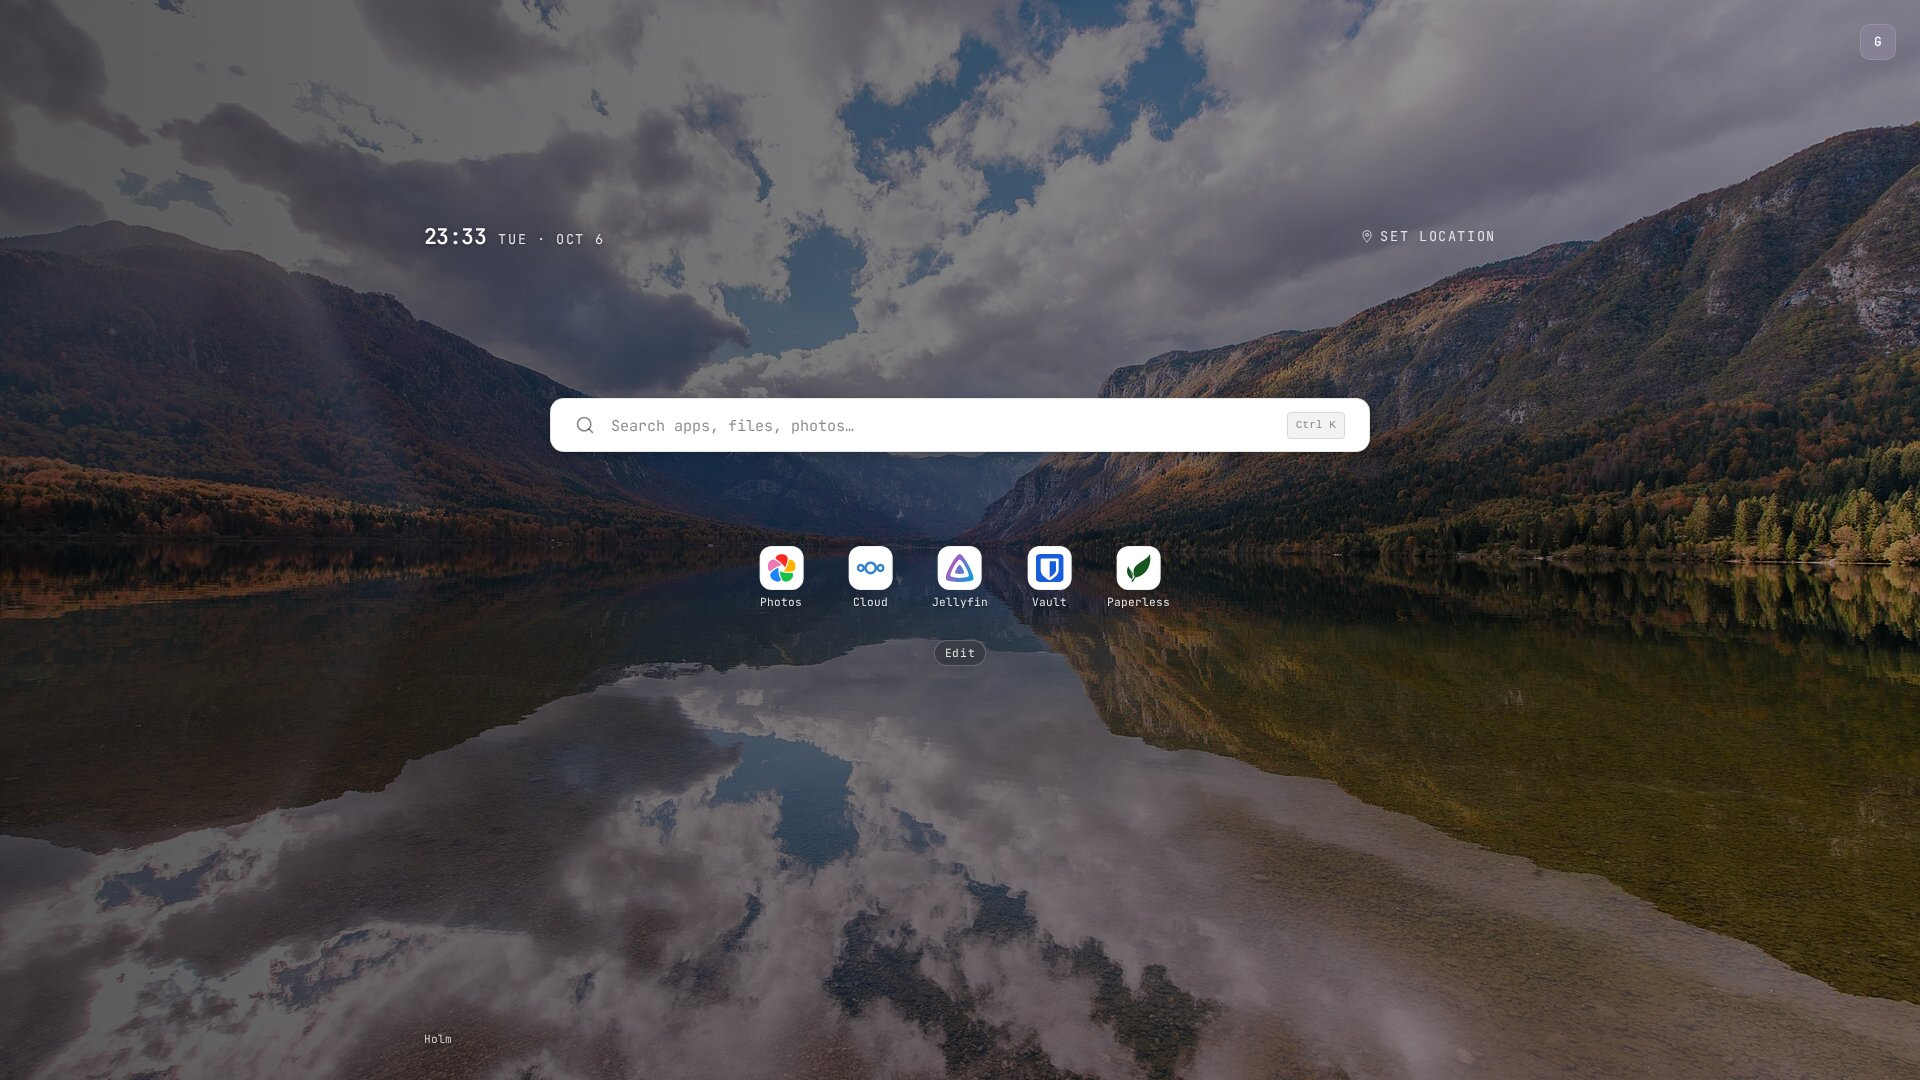
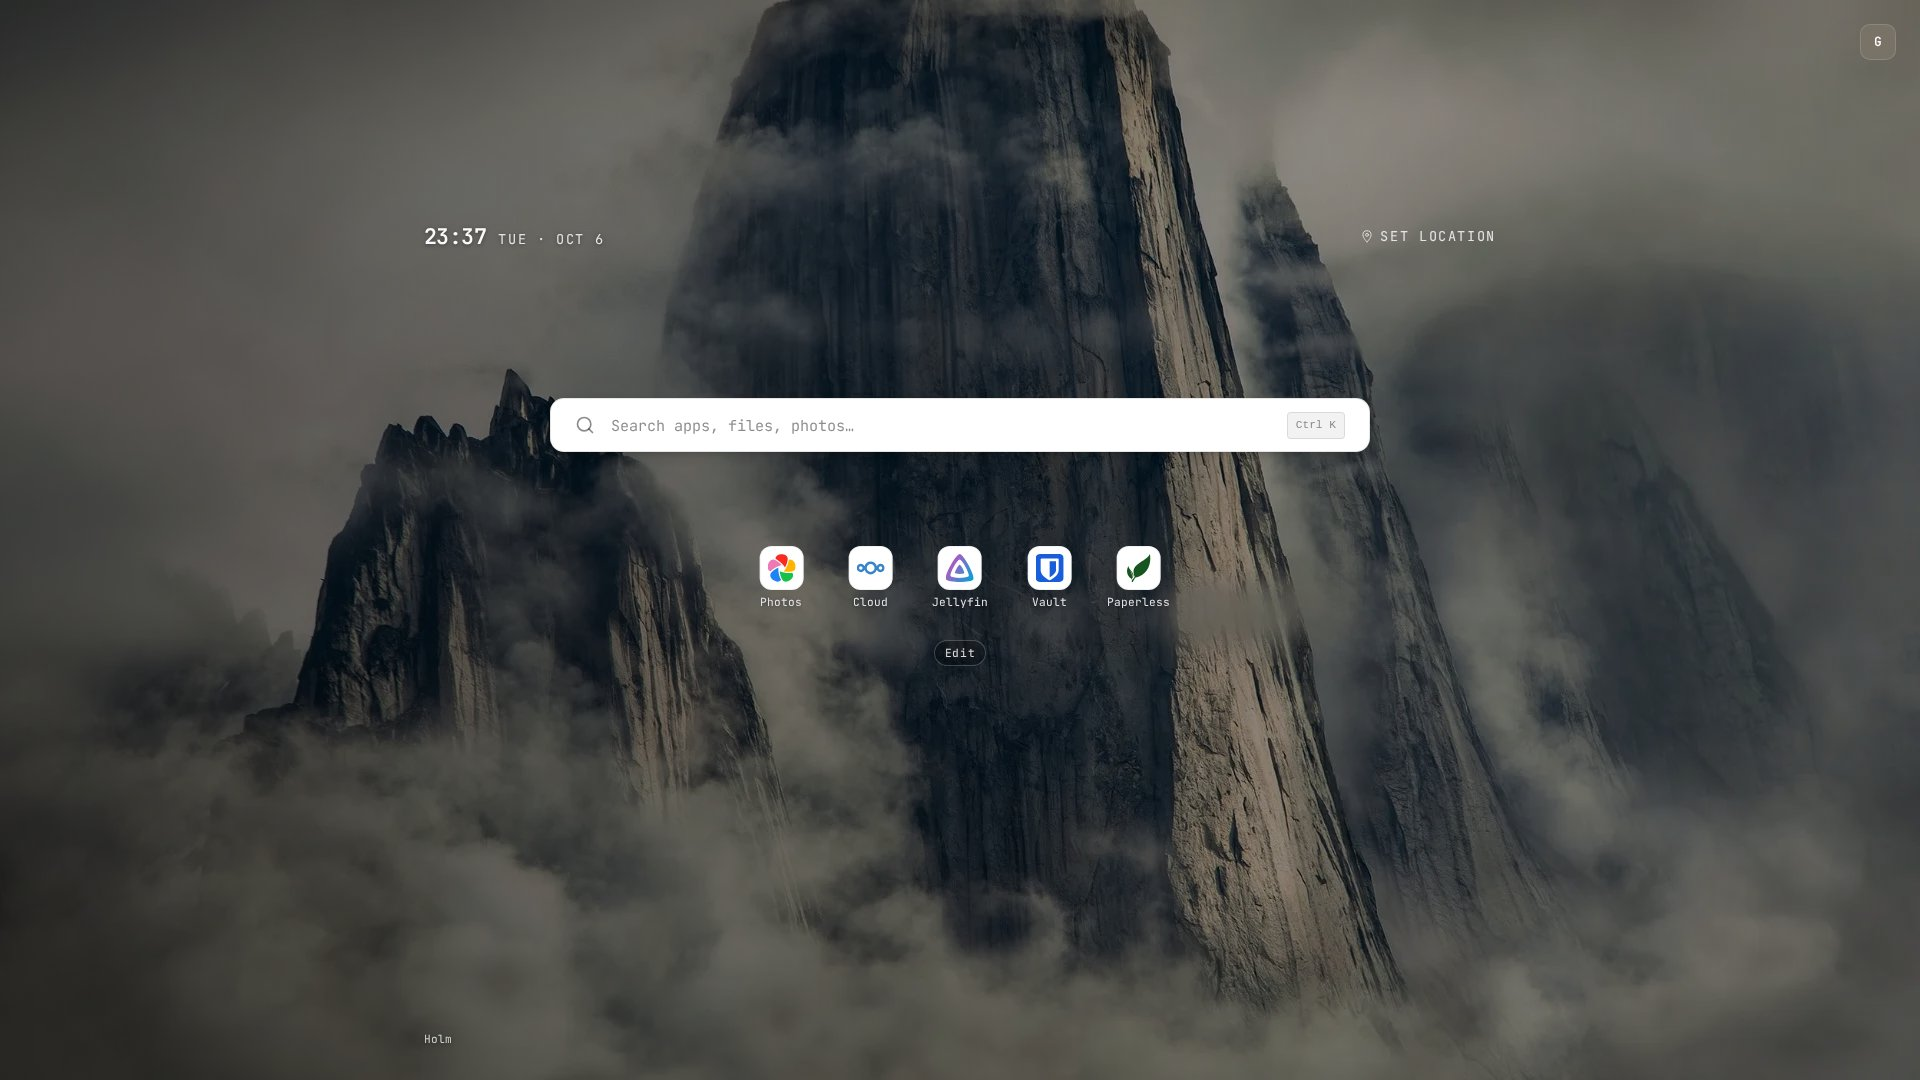
README: today's default wallpaper in the shots, add a setup guide shot

diff --git a/README.md b/README.md
@@ -23,7 +23,11 @@ Most self-hosted dashboards are built by one admin, for one admin. Holm is for t
 Search reaches inside the apps people have connected, with their own login: one query for "spring" finds a film in Jellyfin, documents in Paperless and photos in Immich.
 
 ![Launcher searching Jellyfin, Paperless and Immich at once](docs/screenshots/integrations.jpg)
-<sub>Mock data. Photos and wallpapers in these screenshots are CC0 from Wikimedia Commons; the <i>Spring</i> poster is by Blender Studio, <a href="https://creativecommons.org/licenses/by/4.0/">CC BY 4.0</a>.</sub>
+<sub>Mock data. Search-result photos in these screenshots are CC0 from Wikimedia Commons; the <i>Spring</i> poster is by Blender Studio, <a href="https://creativecommons.org/licenses/by/4.0/">CC BY 4.0</a>.</sub>
+
+Each app can carry a short setup guide: what to install, the steps, and the server URL to copy.
+
+![Setup guide for Photos](docs/screenshots/setup-guide.jpg)
 
 Pick a light or dark theme, or let the wallpaper set the mood:
 
